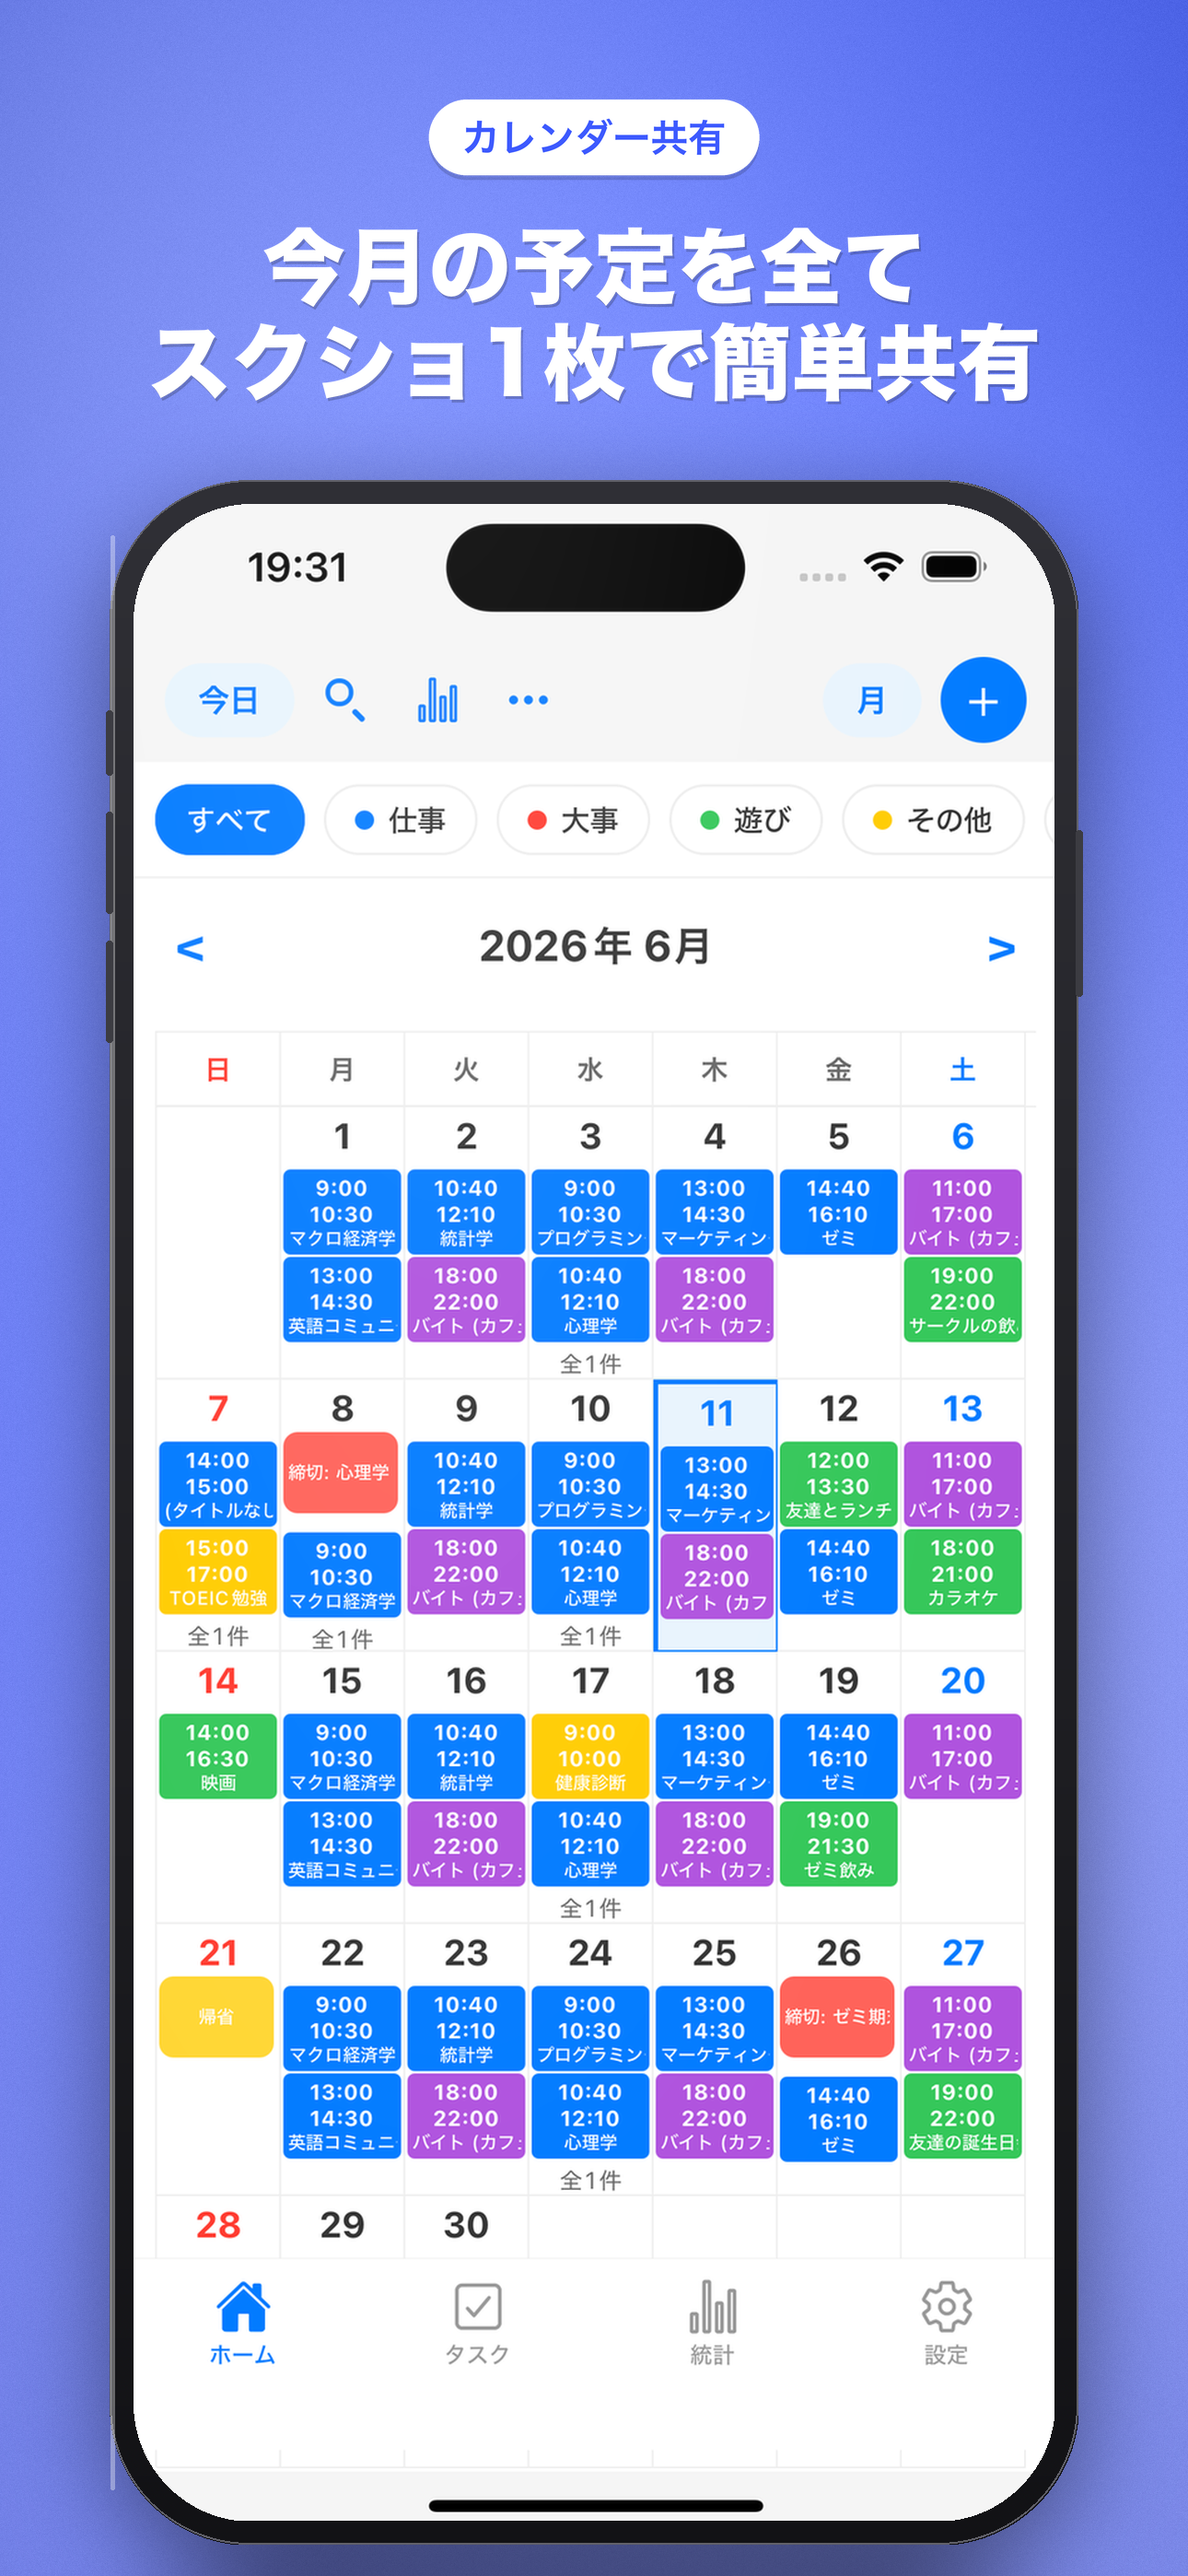
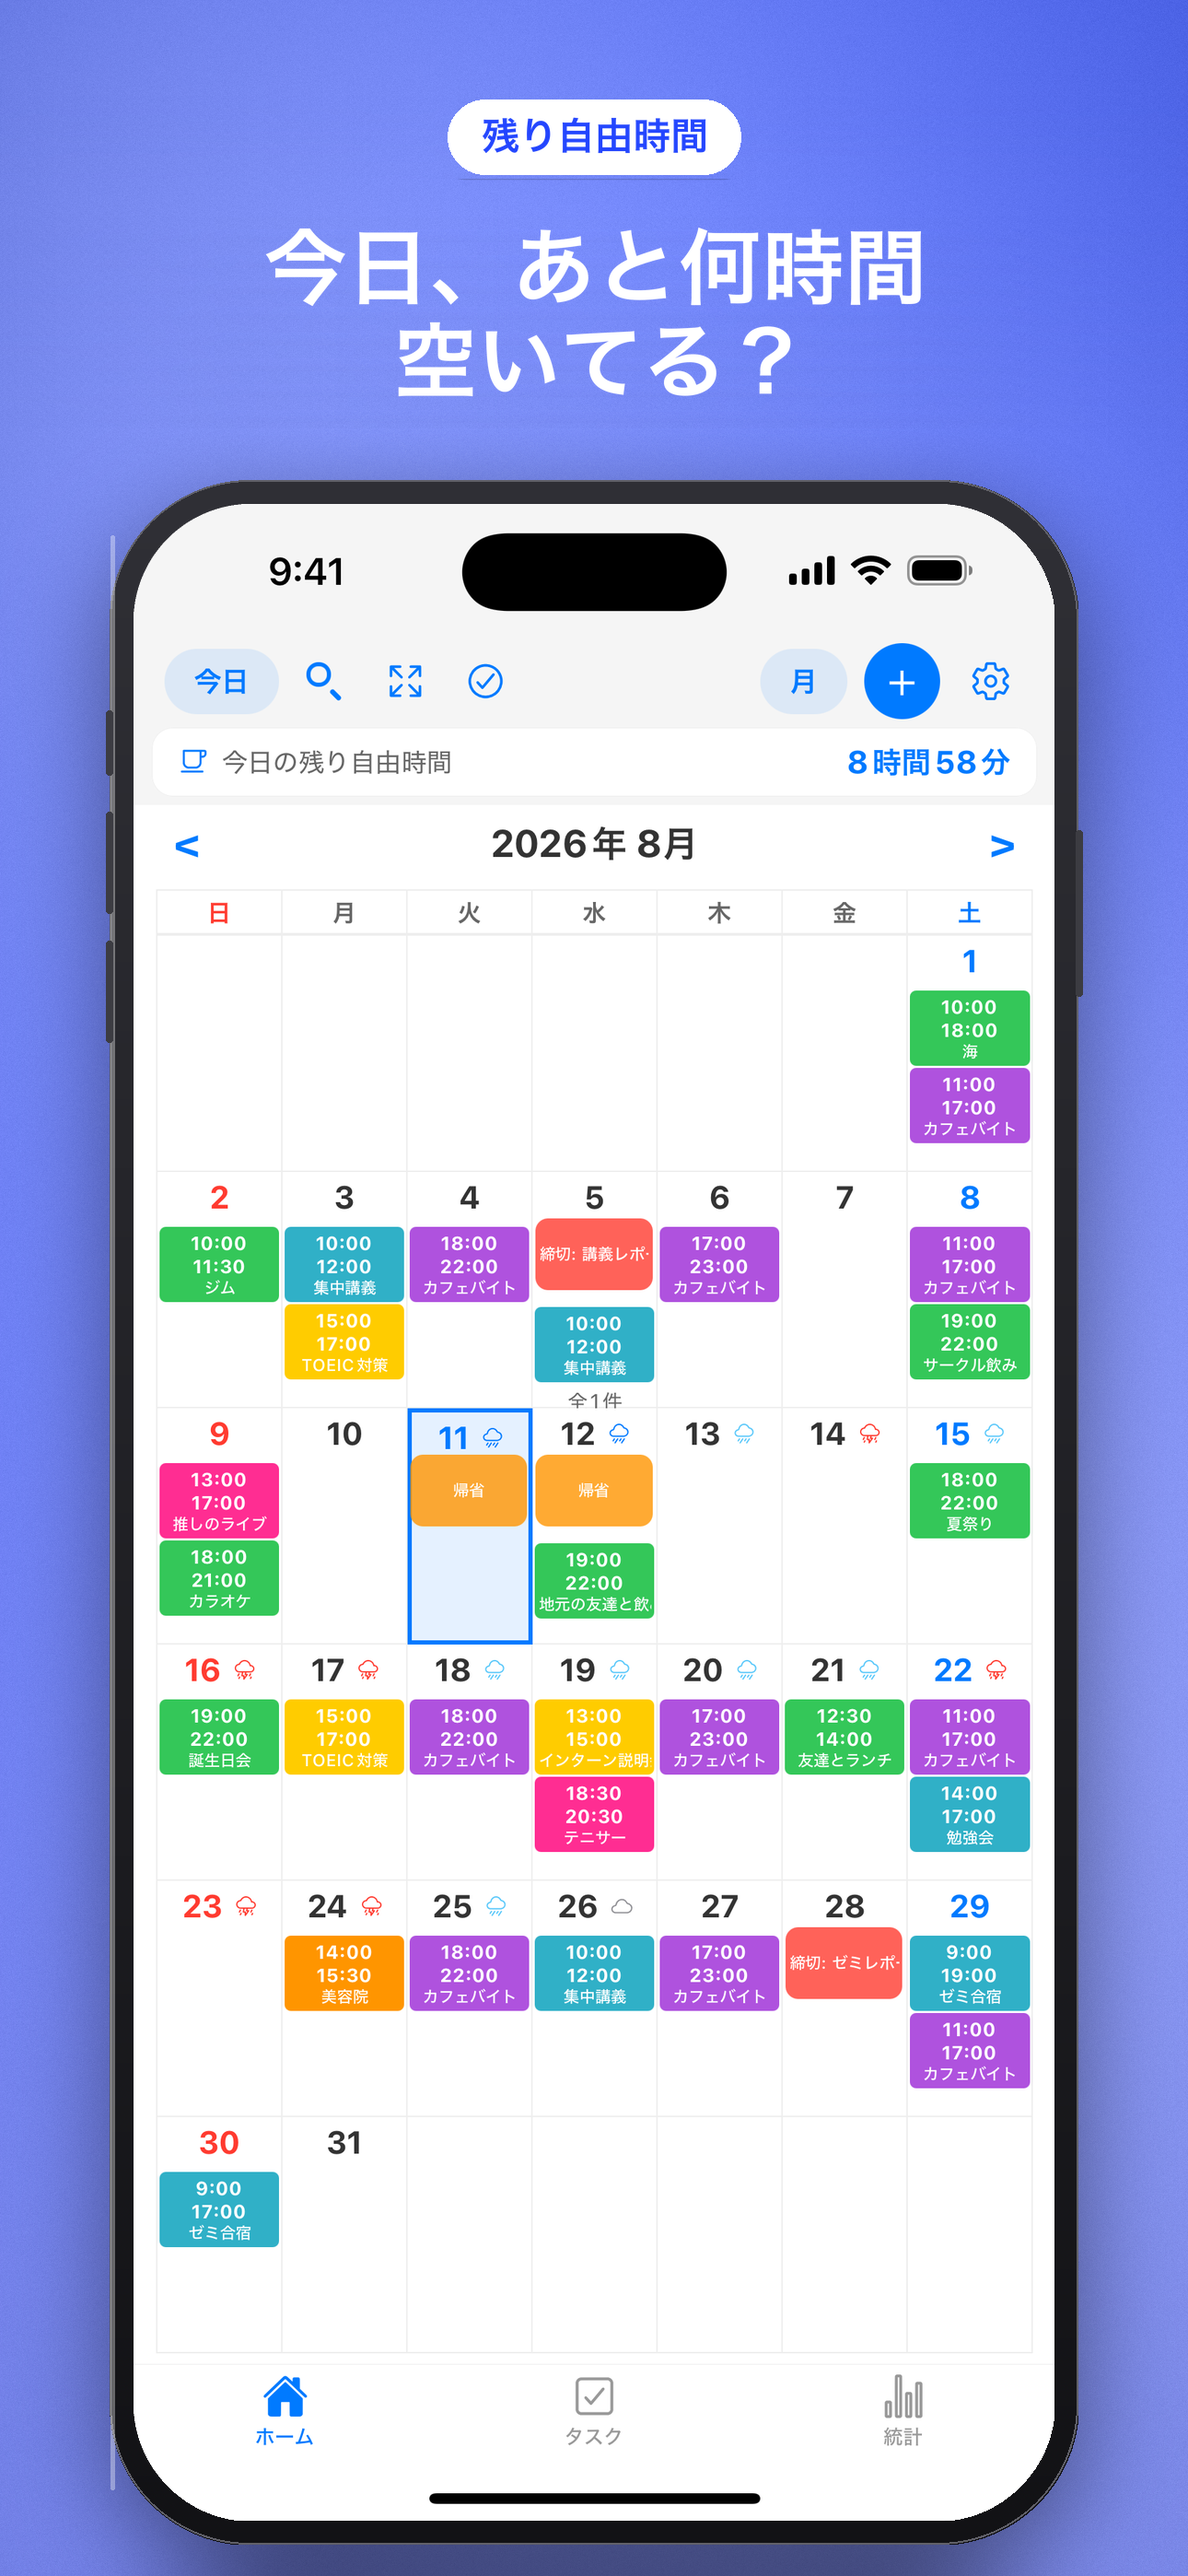
Point the store screenshots at the free-time axis
The submitted set still led with "今月の予定を全て / スクショ1枚で簡単共有" and
sold the app on sharing and AI, which is no longer what it is. Worse,
every slide showing the tab bar showed four tabs; the app ships three,
and the free-time bar the whole listing now leads with did not appear
anywhere in the artwork.

Seven of the eight slides are rebuilt. The lead slide is now the free
time question, the week slide shows the per-day hours, and the stats
slide asks what those hours turned into. Five screens were recaptured
from the running app, so the tab bar, the free-time bar and the numbers
all match what a user actually opens.

_recompose.py edits the approved PNGs rather than regenerating them.
That looks backwards until you know the history: the script that made
the approved artwork was lost before it was committed, and the one still
in git regresses to Chinese glyph forms and superseded copy. The
approved images are therefore the source of truth, and this only
repaints the badge and headline and swaps the screen — background,
device body and layout are left untouched.

Two things it had to get right. Everything is measured off the image
(the pill is found as the first band of white pixels, its colour sampled
from inside it), so nothing is hardcoded that would rot if the artwork
were ever regenerated. And painting over the old text needed care: the
background is not flat, so a strip copied from elsewhere banded visibly.
[…]

diff --git a/appstore_screenshots/_recompose.py b/appstore_screenshots/_recompose.py
@@ -1,0 +1,279 @@
+# Update the submitted App Store screenshots in place.
+#
+# Why this exists rather than a full generator: the script that produced the
+# approved framed set (correct Japanese Hiragino glyphs, the current wording,
+# the device body and gradient) was lost before it was committed, and the
+# version still in git regresses the font and the copy. So the approved PNGs in
+# appstore_screenshots_framed/ ARE the source of truth, and this edits them:
+# it repaints the badge and headline, and swaps the screen, leaving the
+# background, device body and layout exactly as approved.
+#
+# Everything it needs is measured off the image itself, so it stays correct if
+# the artwork is ever regenerated:
+#   - the badge pill is found as the first band of white pixels near the top
+#   - its text colour is sampled from inside it
+#   - the background used to paint over the old text is taken from the clean
+#     full-width strip above the pill, tiled — same gradient, same grain, so
+#     there is no seam to notice
+#
+# Usage: python3 _recompose.py            (rewrites every slide listed below)
+import os
+
+import numpy as np
+from PIL import Image, ImageDraw, ImageFont
+
+SRC = os.path.dirname(os.path.abspath(__file__))
+FRAMED = os.path.join(os.path.dirname(SRC), "appstore_screenshots_framed")
+SHOTS_DIR = os.path.join(SRC, "_screens")
+
+FONT_W6 = "/System/Library/Fonts/ヒラギノ角ゴシック W6.ttc"
+FONT_INDEX = 0  # 'Hiragino Sans' — the face iOS itself uses, with JP glyph forms
+
+# Measured off the approved artwork.
+CANVAS_W = 1290
+HEADLINE_TOP = 247       # ink top of the first line
+HEADLINE_PITCH = 103     # ink top to ink top
+HEADLINE_SIZE = 90
+HEADLINE_MAX_W = 1160
+BADGE_SIZE = 41
+BADGE_PAD_X = 38         # each side, from pill edge to text ink
+SCREEN_BOX = (145, 547, 1000, 2189)   # x, y, w, h
+SCREEN_RADIUS = 127
+SUPERSAMPLE = 3          # render text large and downsample, to keep edges crisp
+
+
+def ink_bbox(text, font):
+    """Bounding box of the drawn pixels, which is what the layout is measured in."""
+    probe = Image.new("L", (3000, 600), 0)
+    ImageDraw.Draw(probe).text((100, 100), text, font=font, fill=255)
+    return probe.getbbox()
+
+
+def find_pill(img):
+    """The badge pill: the topmost run of rows containing near-white pixels."""
+    px = img.load()
+    w, h = img.size
+    rows = []
+    for y in range(0, 600):
+        found = False
+        for x in range(0, w, 3):
+            r, g, b = px[x, y][:3]
+            if min(r, g, b) > 225:
+                found = True
+                break
+        rows.append(found)
+    y0 = rows.index(True)
+    y1 = y0
+    while y1 + 1 < len(rows) and rows[y1 + 1]:
+        y1 += 1
+    xs = [x for x in range(w) if min(px[x, (y0 + y1) // 2][:3]) > 225]
+    return xs[0], y0, xs[-1], y1
+
+
+def badge_text_colour(img, pill):
+    """The most saturated colour inside the pill is its text."""
+    x0, y0, x1, y1 = pill
+    px = img.load()
+    best, best_sat = (0, 0, 0), -1
+    for y in range(y0 + 6, y1 - 6, 2):
+        for x in range(x0 + 6, x1 - 6, 2):
+            r, g, b = px[x, y][:3]
+            sat = max(r, g, b) - min(r, g, b)
+            if sat > best_sat:
+                best, best_sat = (r, g, b), sat
+    return best
+
+
+def fill_background(img, y0, y1, ref=14):
+    """Erase everything between y0 and y1, leaving only background behind.
+
+    The gradient is not flat, so pasting a strip copied from elsewhere leaves
+    visible banding. Instead the band is rebuilt: a smooth base interpolated
+    between the real rows just above and just below it (so it meets both edges
+    exactly), plus the grain lifted from those same rows, so the reconstructed
+    area has the same texture as the rest of the artwork.
+    """
+    a = np.asarray(img).astype(np.float64)
+    h = y1 - y0 + 1
+
+    def smooth_rows(block):
+        """Average the rows, then smooth along x — leaves the gradient, drops the grain."""
+        row = block.mean(axis=0)
+        k = 61
+        pad = np.pad(row, ((k // 2, k // 2), (0, 0)), mode="edge")
+        kernel = np.ones(k) / k
+        return np.stack([np.convolve(pad[:, c], kernel, mode="valid") for c in range(3)], axis=1)
+
+    above = a[max(0, y0 - ref):y0]
+    below = a[y1 + 1:y1 + 1 + ref]
+    top = smooth_rows(above)
+    bottom = smooth_rows(below)
+
+    t = np.linspace(0.0, 1.0, h)[:, None, None]
+    base = top[None, :, :] * (1.0 - t) + bottom[None, :, :] * t
+
+    # Grain, taken from the same artwork rather than invented: the reference
+    # rows minus their own smooth version, tiled to cover the band.
+    grain_src = np.concatenate([above - smooth_rows(above)[None, :, :],
+                                below - smooth_rows(below)[None, :, :]], axis=0)
+    reps = int(np.ceil(h / grain_src.shape[0]))
+    grain = np.concatenate([grain_src] * reps, axis=0)[:h]
+
+    a[y0:y1 + 1] = np.clip(base + grain, 0, 255)
+    return Image.fromarray(a.astype(np.uint8))
+
+
+def draw_text_centred(img, text, font_path, size, ink_top, colour):
+    """Draw `text` centred on the canvas with its ink starting at `ink_top`."""
+    font = ImageFont.truetype(font_path, size * SUPERSAMPLE, index=FONT_INDEX)
+    bbox = ink_bbox(text, font)
+    tw, th = bbox[2] - bbox[0], bbox[3] - bbox[1]
+    layer = Image.new("RGBA", (tw + 40, th + 40), (0, 0, 0, 0))
+    ImageDraw.Draw(layer).text((20 - (bbox[0] - 100), 20 - (bbox[1] - 100)),
+                               text, font=font, fill=colour + (255,))
+    layer = layer.resize(
+        (round(layer.width / SUPERSAMPLE), round(layer.height / SUPERSAMPLE)),
+        Image.LANCZOS,
+    )
+    x = round(CANVAS_W / 2 - layer.width / 2)
+    img.paste(layer, (x, ink_top - round(20 / SUPERSAMPLE)), layer)
+
+
+def fit_size(lines, base):
+    """Shrink the headline just enough that its longest line fits the canvas."""
+    size = base
+    while size > 40:
+        font = ImageFont.truetype(FONT_W6, size, index=FONT_INDEX)
+        widest = max(ink_bbox(l, font)[2] - ink_bbox(l, font)[0] for l in lines)
+        if widest <= HEADLINE_MAX_W:
+            return size
+        size -= 2
+    return size
+
+
+def set_badge(img, text):
+    pill = find_pill(img)
+    colour = badge_text_colour(img, pill)
+    x0, y0, x1, y1 = pill
+    height = y1 - y0 + 1
+
+    font = ImageFont.truetype(FONT_W6, BADGE_SIZE, index=FONT_INDEX)
+    b = ink_bbox(text, font)
+    ink_w, ink_h = b[2] - b[0], b[3] - b[1]
+    pill_w = ink_w + BADGE_PAD_X * 2
+
+    # Wipe the old pill, then draw the new one at the same vertical position.
+    img.paste(fill_background(img, y0 - 4, y1 + 4), (0, 0))
+
+    left = round(CANVAS_W / 2 - pill_w / 2)
+    ImageDraw.Draw(img).rounded_rectangle(
+        [left, y0, left + pill_w, y1], radius=height // 2, fill=(255, 255, 255)
+    )
+    draw_text_centred(img, text, FONT_W6, BADGE_SIZE,
+                      y0 + (height - ink_h) // 2, colour)
+
+
+def set_headline(img, lines):
+    top = HEADLINE_TOP - 12
+    bottom = HEADLINE_TOP + HEADLINE_PITCH * (len(lines) - 1) + HEADLINE_SIZE + 24
+    img.paste(fill_background(img, top, bottom), (0, 0))
+
+    size = fit_size(lines, HEADLINE_SIZE)
+    for i, line in enumerate(lines):
+        draw_text_centred(img, line, FONT_W6, size,
+                          HEADLINE_TOP + HEADLINE_PITCH * i, (255, 255, 255))
+
+
+def set_screen(img, capture_path):
+    """Drop a fresh simulator capture into the device's screen, corners and all."""
+    x, y, w, h = SCREEN_BOX
+    shot = Image.open(capture_path).convert("RGB")
+
+    # Cover the slot, then centre-crop — the capture's aspect is very close, so
+    # this trims a few pixels at the sides rather than distorting the UI.
+    scale = max(w / shot.width, h / shot.height)
+    shot = shot.resize((round(shot.width * scale), round(shot.height * scale)), Image.LANCZOS)
+    shot = shot.crop((
+        (shot.width - w) // 2,
+        (shot.height - h) // 2,
+        (shot.width - w) // 2 + w,
+        (shot.height - h) // 2 + h,
+    ))
+
+    mask = Image.new("L", (w * 2, h * 2), 0)
+    ImageDraw.Draw(mask).rounded_rectangle(
+        [0, 0, w * 2 - 1, h * 2 - 1], radius=SCREEN_RADIUS * 2, fill=255
+    )
+    mask = mask.resize((w, h), Image.LANCZOS)
+    img.paste(shot, (x, y), mask)
+
+
+# filename → what to change. Omit a key to leave that part of the slide alone.
+SLIDES = [
+    {
+        "file": "01_カレンダー共有.png",
+        "badge": "残り自由時間",
+        "headline": ["今日、あと何時間", "空いてる？"],
+        "screen": "01_month.png",
+    },
+    {
+        "file": "02_AIで予定作成.png",
+        "badge": "時間管理エージェント",
+        "headline": ["やりたいことを書けば", "一週間に置かれる"],
+        "screen": "02_agent.png",
+    },
+    {
+        "file": "03_バイト分析.png",
+        "headline": ["その時間は、", "いくらになった？"],
+        "screen": "03_stats.png",
+    },
+    {
+        "file": "04_あとでやる.png",
+        "screen": "04_later.png",
+    },
+    {
+        "file": "05_ウィジェット.png",
+        "headline": ["開かなくても、", "今日の余白がわかる"],
+    },
+    {
+        "file": "06_週表示.png",
+        "badge": "週表示",
+        "headline": ["一週間ぶんの余白が、", "ひと目で。"],
+        "screen": "06_week.png",
+    },
+    {
+        "file": "07_年収の壁ナビ.png",
+        "screen": "07_wall.png",
+    },
+    {
+        "file": "08_空き日シェア.png",
+    },
+]
+
+
+def main():
+    for slide in SLIDES:
+        path = os.path.join(FRAMED, slide["file"])
+        img = Image.open(path).convert("RGB")
+
+        # A slide whose capture hasn't been taken yet is left exactly as it is,
+        # so a half-finished run never ships a slide with new copy over an old
+        # screen (or vice versa).
+        if "screen" in slide:
+            capture = os.path.join(SHOTS_DIR, slide["screen"])
+            if not os.path.exists(capture):
+                print(f"{slide['file']}: SKIPPED — no capture at {slide['screen']}")
+                continue
+            set_screen(img, capture)
+        if "badge" in slide:
+            set_badge(img, slide["badge"])
+        if "headline" in slide:
+            set_headline(img, slide["headline"])
+
+        img.save(path)
+        changed = [k for k in ("screen", "badge", "headline") if k in slide]
+        print(f"{slide['file']}: {', '.join(changed) if changed else 'unchanged'}")
+
+
+if __name__ == "__main__":
+    main()
